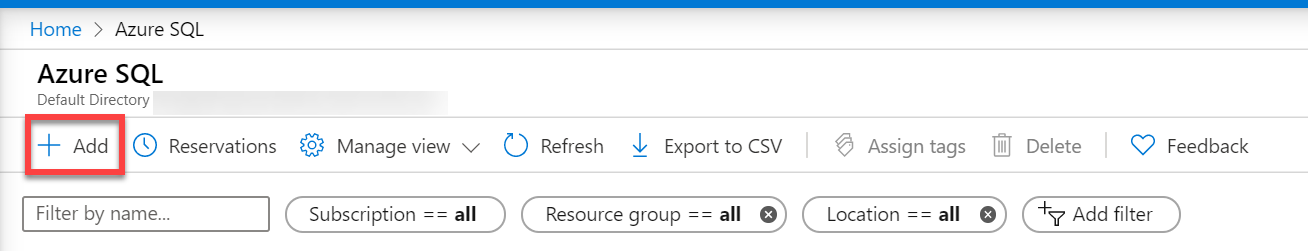
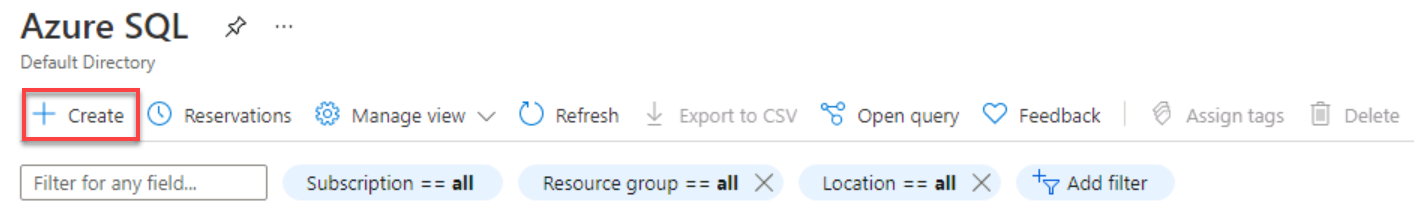
Change image 11 and text.

Changed region(s): [[0.0, 0.3578, 1.0, 0.9358], [0.0, 0.0, 1.0, 0.2202], [0.0, 0.2477, 0.1223, 0.3578]]

diff --git a/Instructions/Labs/DP-300_01_lab.md b/Instructions/Labs/DP-300_01_lab.md
@@ -105,9 +105,9 @@ The main tasks for this exercise are as follows:
 
 ## Task 2: Provision a SQL Server on an Azure Virtual Machine
 
-1. On the Azure SQL blade, select the New button. 
+1. On the Azure SQL blade, select the Create button. 
 
-	![image](https://user-images.githubusercontent.com/16070952/110152179-64462700-7daf-11eb-8b83-43e7e0fcc041.png)
+	![Picture 10](../images/dp-3300-module-11-lab-10.png)
 
 
 2. On the Select SQL deployment option blade, open the drop-down box under SQL virtual machines. Select the option labeled Free SQL Server License: SQL 2019 Developer on Windows Server 2019. Then select the Create button.
